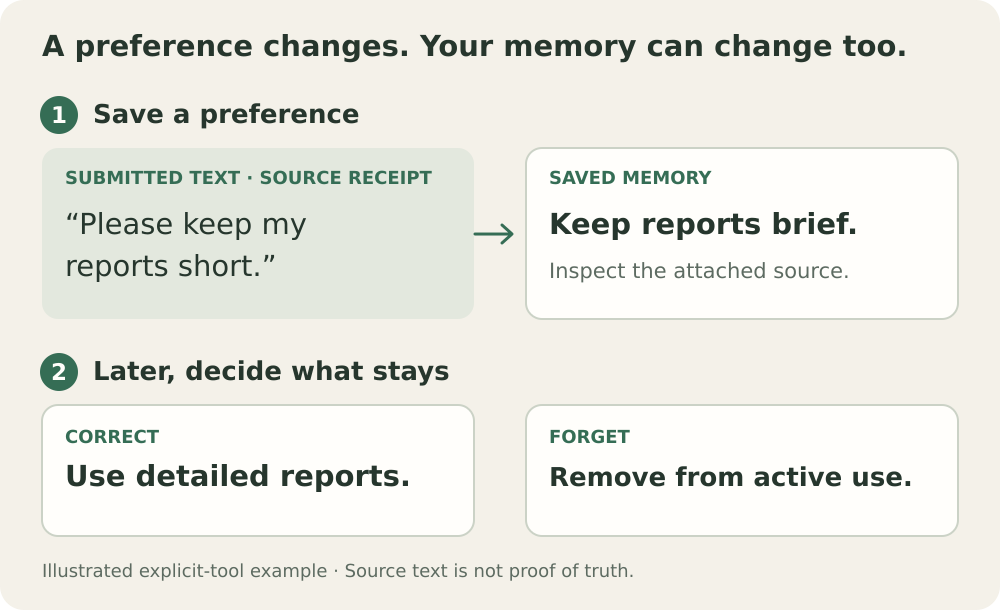
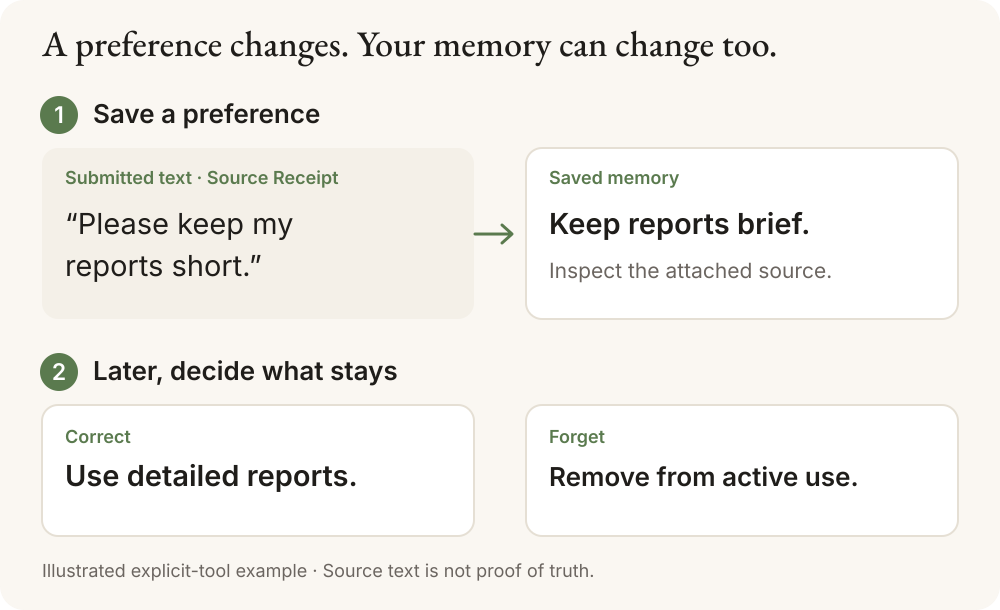
docs: align README artwork with Cairn brand and clarify products

diff --git a/README.md b/README.md
@@ -1,5 +1,5 @@
 <p align="center">
-  <img src="docs/images/readme-hero.png" alt="Cairn Memory — Memory you can change. Save context. Inspect its source. Update or forget. Developer preview." width="1200">
+  <img src="docs/images/readme-hero.png" alt="Cairn Memory — AI memory you can inspect and change. Official Cairn stacked-stone logo, with an illustrated memory and its submitted source text. Open-source developer preview." width="1200">
 </p>
 
 <h1 align="center">Cairn Memory</h1>
@@ -13,7 +13,7 @@
 </p>
 
 <p align="center">
-  English · <a href="README.zh-TW.md">繁體中文介紹</a>
+  English · <a href="README.zh-TW.md">繁體中文</a>
 </p>
 
 <p align="center">
@@ -51,11 +51,23 @@ A **Source Receipt** is the submitted text attached to a memory. It helps you
 check what was supplied when the memory was saved or corrected. It is not a
 verified transcript of the whole conversation or proof of human intent.
 
+## Cairn Memory and Cairn
+
+**Cairn Memory** is the open-source toolkit in this repository for saving,
+inspecting and changing AI memory. **[Cairn](https://cairn.ink)** is the hosted
+shared memory map for people and AI, where people organize, review and share
+knowledge.
+
+This repository includes local memory tools and connectors to the hosted Cairn
+service. Each path has its own setup and feature boundaries. Local use does not
+require a Cairn account; hosted connections require a compatible service and
+authentication.
+
 ## Choose your starting point
 
 | You want to… | Start here | What you need |
 | --- | --- | --- |
-| Understand the idea before installing | [繁中介紹](README.zh-TW.md) or the [recorded walkthrough](#watch-the-recorded-walkthrough) | No installation or account |
+| Understand the idea before installing | [繁體中文](README.zh-TW.md) or the [recorded walkthrough](#watch-the-recorded-walkthrough) | No installation or account |
 | Try the open-source tools on your computer | [Local preview setup](#try-the-local-memory-layer) | Terminal setup; installation checks cover Linux x64; no Cairn account |
 | Use the documented hosted Claude Code or Codex connection | [Hosted setup](#existing-hosted-integration) | A compatible hosted service and authentication; separate from local-preview client support |
 | Build on the memory layer | [Architecture](docs/architecture.md) and [MCP tools](docs/standalone-mcp.md) | JavaScript or MCP integration work |

diff --git a/docs/images/README.md b/docs/images/README.md
@@ -1,15 +1,24 @@
 # README illustrations
 
-These original illustrations use Cairn's existing three-stone mark and the
-palette from [the social preview](../promotion/social-preview.svg). They are
-concept illustrations, not screenshots of an application or chat client.
+These illustrations follow Cairn's approved shared style ruler (v1.2,
+2026-09-27): paper `#FAF7F2`, warm paper `#F4F0E8`, ink `#1F1D1A`, muted ink
+`#6B6560`, moss `#5A7A4E` and stroke `#E5DFD4`. Display type uses EB Garamond;
+body text and the Memory descriptor use Inter. They are concept illustrations,
+not screenshots of an application or chat client.
+
+The header reuses the official three ellipses from Cairn's `CairnStones`
+component / `public/cairn-wordmark.svg`, with the same proportions, tilts and
+opacity levels. The existing Cairn wordmark is followed by a separate Memory
+descriptor. Do not replace the mark with bars or redraw it with a generator.
 
 - `readme-hero.svg` / `.png`: the brand header.
 - `memory-workflow.svg` / `.png`: an explicit-tool example of saving, inspecting,
   correcting and forgetting a reporting preference.
 
 SVG files are the editable sources. PNG files are rasterized at the dimensions
-declared in the SVGs for README display. Keep source text and memory content
+declared in the SVGs for README display, with EB Garamond 400/500 and Inter
+400/500/600 available to the renderer. The PNGs retain the intended typography
+without relying on the reader's installed fonts. Keep source text and memory content
 distinct; do not imply automatic capture, verified chat-client compatibility,
 successful model-free semantic recall or secure disk erasure.
 
